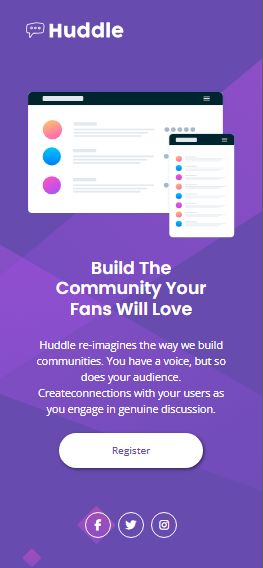
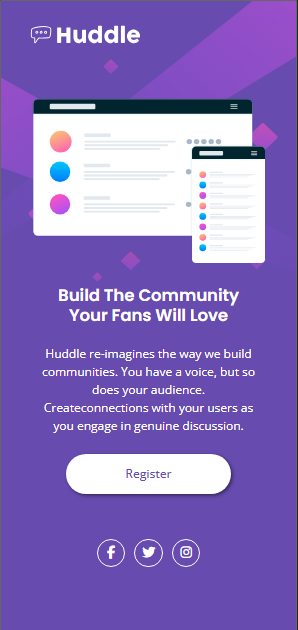
correção

diff --git a/index.html b/index.html
@@ -17,6 +17,7 @@
     <link rel="stylesheet" href="./src/css/responsive.css">
 </head>
 <body>
+    <img class="bg-mb" src="./src/images/bg-mobile.svg">
     <header>
         <img class="logo" src="./src/images/logo.svg" alt="Logotipo do site Huddle">
     </header>
@@ -33,16 +34,26 @@
         </section>    
     </main>
     
-    <footer class="social-icons">
-        <a href="https://www.facebook.com" target="_blank" aria-label="Facebook">
-            <i class="fa-brands fa-facebook-f icon-bg"></i>
-        </a>
-        <a href="https://twitter.com" target="_blank" aria-label="Twitter">
-            <i class="fa-brands fa-twitter icon-bg"></i>
-        </a>
-        <a href="https://www.instagram.com" target="_blank" aria-label="Instagram">
-            <i class="fa-brands fa-instagram icon-bg"></i>
-        </a>
+    <footer >
+        <nav>
+            <ul class="social-icons">
+                <li>
+                    <a href="https://www.facebook.com" target="_blank" aria-label="Facebook">
+                        <i class="fa-brands fa-facebook-f icon-bg"></i>
+                    </a>
+                </li>
+                <li>
+                    <a href="https://twitter.com" target="_blank" aria-label="Twitter">
+                        <i class="fa-brands fa-twitter icon-bg"></i>
+                    </a>
+                </li>
+                <li>
+                    <a href="https://www.instagram.com" target="_blank" aria-label="Instagram">
+                        <i class="fa-brands fa-instagram icon-bg"></i>
+                    </a>
+                </li>
+            </ul>
+        </nav>
     </footer>
 </body>
 </html>

diff --git a/src/css/style.css b/src/css/style.css
@@ -3,15 +3,14 @@ body {
     background-image: url('../images/bg-desktop.svg');
     background-size: cover;
     background-repeat: no-repeat;
-    background-position: center;
-    width: 100vw;
-    height: 100vh;
     margin: 0;
-    overflow: hidden;
     background-color: var(--Violet-bkg);
     display: flex;
     flex-direction: column;
     justify-content: center;
+}
+.bg-mb{
+    display: none;
 }
 
 /* Header */
@@ -21,7 +20,7 @@ header {
 .logo {
     width: 12vw;
     position: relative;
-    left: 7vw;
+    left: 9vw;
     top: 4vh;
 }
 
@@ -37,20 +36,20 @@ header {
     width: 50vw;
 }
 .panel-info {
-    width: 34%;
-    font-size: 1.5rem;
+    width: 460px;
+    font-size: 1.6rem;
     line-height: 1.5;
     display: flex;
     flex-direction: column;
     gap: 10%;
     padding: 9vh 0;
 }
-.panel h1 {
+.panel-info h1 {
     font-family: var(--font-family-headings);
     font-size: 3.5rem;
     font-weight: 600;
     line-height: 1.2;
-    padding: 0 3vw 0 0;
+    max-width: 385px;
 }
 /* Button */
 .button {
@@ -63,7 +62,7 @@ header {
     font-weight: 500;
     text-decoration: none;
 }
-.button:active{
+.button:hover{
     cursor: pointer;
     background-color: var(--Soft-Magenta);
     color: #fff;
@@ -92,5 +91,9 @@ header {
     border-radius: 50%;
     outline: 2px solid var(--text-color);
     outline-offset: 1px;
+}
+.icon-bg:hover{
+    color: var(--Soft-Magenta);
+    outline: 3px solid var(--Soft-Magenta);
 }
 

diff --git a/src/css/responsive.css b/src/css/responsive.css
@@ -1,10 +1,17 @@
 /* Responsive */
-@media (max-width: 768px) {
+@media (max-width: 900px) {
     body {
-        background-image: url('../images/bg-mobile.svg');
+        background-image: none;
         display: flex;
         flex-direction: column;
         justify-content: space-between;
+    }
+    .bg-mb{
+        display: block;
+        position: absolute;
+        z-index: -1;
+        width: 100%;
+        max-height: 44%;
     }
     .logo {
         width: 40%;
@@ -20,7 +27,7 @@
         padding: 0;
     }
     .panel h1 {
-        font-size: 2.6rem;
+        font-size: 2.2rem;
         padding: 0;
         line-height: 1.2;
     }

diff --git a/src/css/reset.css b/src/css/reset.css
@@ -15,6 +15,9 @@ body {
     font-size: 1.6rem;
     font-weight: 400;
 }
+ul{
+    list-style: none;
+}
 a{
     text-decoration: none;
 }

diff --git a/README.md b/README.md
@@ -21,19 +21,22 @@ Este projeto é uma landing page simples, mas que traz a essência da empresa e 
 ![Demonstração do Projeto](./src/images/logo.svg)
 
 <div style="display: flex; justify-content: space-between; align-items: flex-start;">
-  <!-- Imagens 4x3 uma embaixo da outra -->
+  
   <div style="display: flex; flex-direction: column; align-items: center;">
     <h3>Design Desktop</h3>
-    <img style="border: 10px solid black;" src="./src/design-site/design-desktop.PNG" alt="Imagem 4x3-1" width="400">
+    <img style="border: 3px solid black;" src="./src/design-site/design-desktop.PNG" width="500">
     <h3>Active States</h3><br>
-    <img style="border: 10px solid black;" src="./src/design-site/active-states.PNG" alt="Imagem 4x3-2" width="400">
+    <img style="border: 3px solid black;" src="./src/design-site/active-states.PNG" width="500">
+  
   </div><br>
 
-  <!-- Imagem 9x16 ao lado -->
-  <div style="display: flex; flex-direction: column; align-items: center;">
-    <h3>Design Mobile</h3>
-    <img style="border: 10px solid black;" src="./src/design-site/design-mobile.PNG" alt="Imagem 9x16" width="264">
+  <div style="display: flex; flex-direction:column; align-items: center;">
+  <h3>Design Mobile</h3>
+    <img style="border: 3px solid black;" src="./src/design-site/design-mobile.PNG" width="200"><br><br>
+    <h4>Active States-icons</h4>
+  <img style="border: 3px solid black;" src="./src/design-site/active-states-icons.PNG" width="100">
   </div>
+
 </div>
 
 ---
